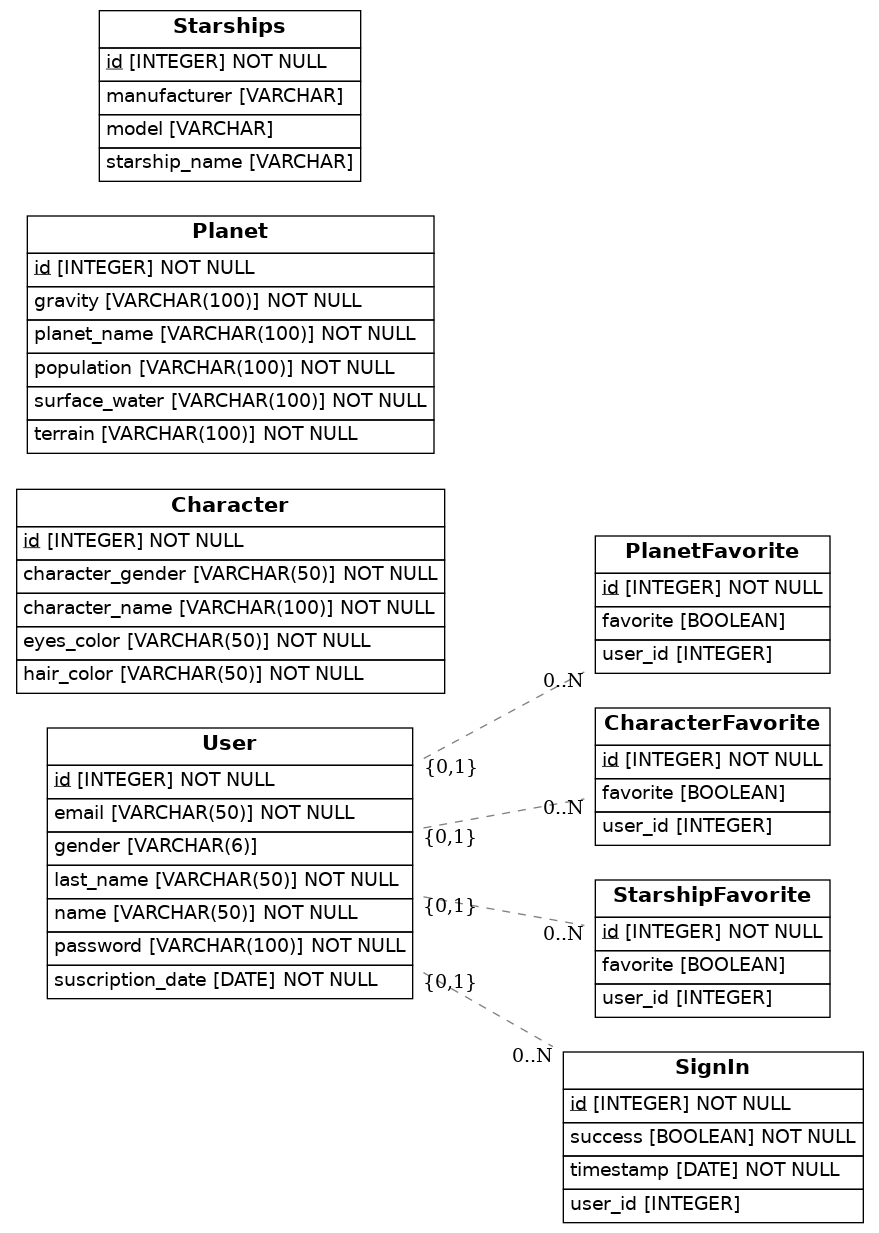
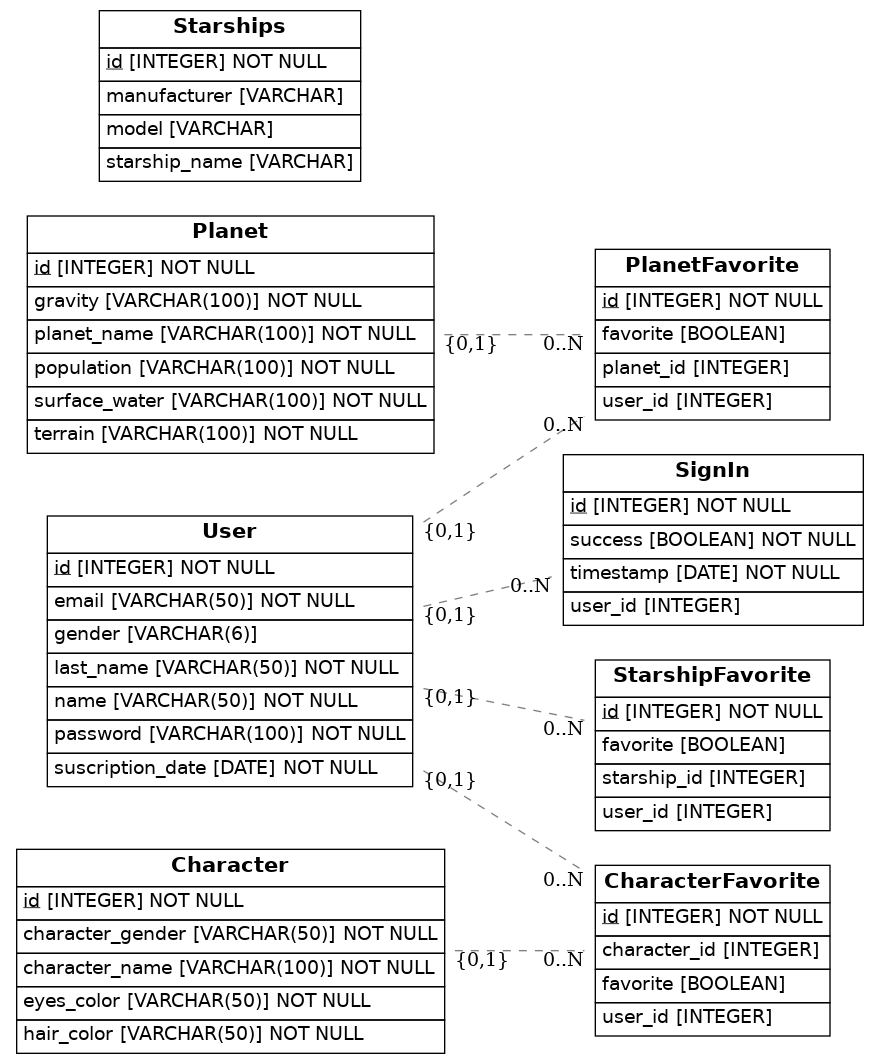
Add relationship between favorites planets, characters and starships and planet, character and starship class

Changed region(s): [[0.0, 0.0, 0.5529, 0.9934], [0.5836, 0.4346, 0.9829, 0.9934], [0.6143, 0.2173, 0.9522, 0.4036]]

diff --git a/src/models.py b/src/models.py
@@ -36,6 +36,7 @@ class PlanetFavorite(Base):
     favorite = Column(Boolean, default=False)
 
     user_id = Column(Integer, ForeignKey("User.id"))
+    planet_id = Column(Integer, ForeignKey("Planet.id"))
 
 class CharacterFavorite(Base):
     __tablename__ = "CharacterFavorite"
@@ -44,6 +45,7 @@ class CharacterFavorite(Base):
     favorite = Column(Boolean, default=False)
 
     user_id = Column(Integer, ForeignKey("User.id"))
+    character_id = Column(Integer, ForeignKey("Character.id"))
 
 class StarshipFavorite(Base):
     __tablename__ = "StarshipFavorite"
@@ -52,7 +54,8 @@ class StarshipFavorite(Base):
     favorite = Column(Boolean, default=False) 
 
     user_id = Column(Integer, ForeignKey("User.id"))   
-
+    starship_id = Column(Integer, ForeignKey("Starship.id"))
+    
 class SignIn(Base):
     __tablename__ = "SignIn"
 
